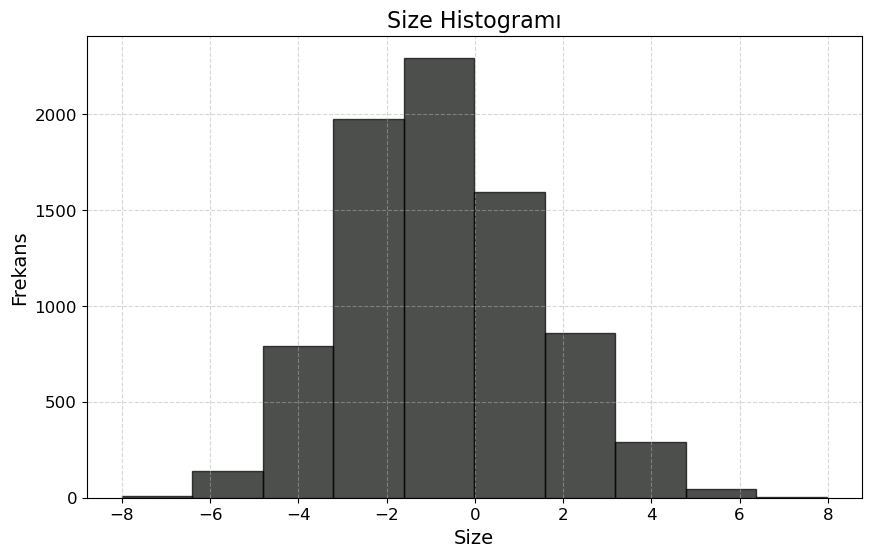
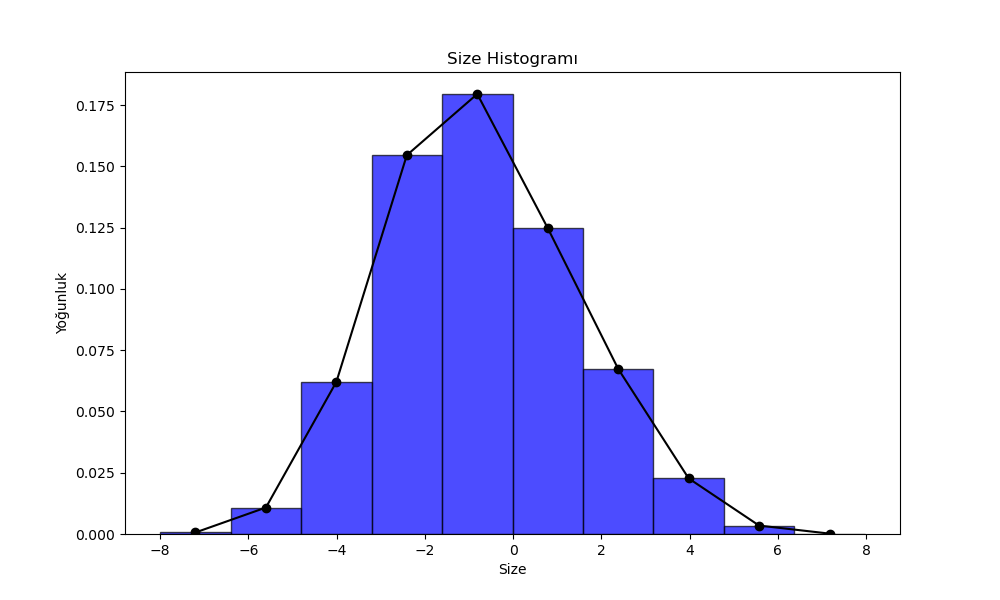
Version 1.0.2

diff --git a/templates/histograms.html b/templates/histograms.html
@@ -3,12 +3,31 @@
 <head>
     <meta charset="UTF-8">
     <meta name="viewport" content="width=device-width, initial-scale=1.0">
-    <title>Histogramlar</title>
+    <title>Histograms</title>
 </head>
 <body>
-    <h1>Histogramlar</h1>
-    <div id="histogramlar">
-        <img src="{{ url_for('static', filename=histogram) }}" alt="Histogram">
-    </div>
+    <h2>Histogram</h2>
+    <img src="{{ url_for('static', filename=histogram) }}" alt="Histogram">
+
+    <h2>Statistical Summary</h2>
+    <table border="1">
+        <thead>
+            <tr>
+                <th>Statistical Measure</th>
+                <th>Value</th>
+            </tr>
+        </thead>
+        <tbody>
+            {% for key, value in stats.items() %}
+            <tr>
+                <td>{{ key }}</td>
+                <td>{{ value }}</td>
+            </tr>
+            {% endfor %}
+        </tbody>
+    </table>
+
+    <h2>Missing Values</h2>
+    <p>{{ missing_info }}</p>
 </body>
 </html>

diff --git a/app.py b/app.py
@@ -2,8 +2,10 @@ import os
 import random
 
 import matplotlib.pyplot as plt
+import numpy as np
 import pandas as pd
 from flask import Flask, render_template, request
+from scipy import stats
 from werkzeug.utils import secure_filename
 
 app = Flask(__name__)
@@ -35,8 +37,13 @@ def upload():
         
         df = pd.read_csv(os.path.join(app.config['UPLOAD_FOLDER'], filename))
         columns = df.columns.tolist()
-
-        return render_template('select_column.html', columns=columns, filename=filename)
+        
+        # İstatistiksel özet hesaplama
+        stats_summary = df.describe().loc[['mean', 'std', 'min', '25%', '50%', '75%', 'max']]
+        stats_summary = stats_summary.rename(index={'50%': 'median', '25%': 'Q1', '75%': 'Q3'})
+        stats_summary = stats_summary.rename(index=lambda x: x.capitalize())
+        
+        return render_template('select_column.html', columns=columns, filename=filename, stats=stats_summary.to_dict())
     else:
         return "Yalnızca CSV dosyaları kabul edilmektedir!"
 
@@ -47,19 +54,33 @@ def visualize():
     df = pd.read_csv(os.path.join(app.config['UPLOAD_FOLDER'], filename))
 
     try:
+        # Eksik değer kontrolü
+        missing_values = df[selected_column].isnull().sum()
+        missing_info = f"{selected_column} sütununda {missing_values} eksik değer bulunmaktadır." if missing_values > 0 else f"{selected_column} sütununda eksik değer bulunmamaktadır."
+
+        # İstatistiksel özet hesaplama
+        stats_summary = df[selected_column].describe().loc[['mean', 'std', 'min', '25%', '50%', '75%', 'max']]
+        stats_summary = stats_summary.rename(index={'50%': 'median', '25%': 'Q1', '75%': 'Q3'})
+        stats_summary = stats_summary.rename(index=lambda x: x.capitalize())
+
         # Histogram veya trend grafiği oluştur
         if pd.api.types.is_numeric_dtype(df[selected_column]):
             # Sayısal veriler için histogram
             plt.figure(figsize=(10, 6))
-            plt.hist(df[selected_column], color=random.choice(['red', 'blue', 'green', 'yellow', 'orange', 'purple']), edgecolor='black', alpha=0.7)
+            n, bins, patches = plt.hist(df[selected_column], color=random.choice(['red', 'blue', 'green', 'yellow', 'orange', 'purple']), edgecolor='black', alpha=0.7, density=True)
+            
+            # Normalleştirilmiş histogramı kullanarak bir çizgi çiz
+            bin_centers = 0.5 * (bins[:-1] + bins[1:])
+            plt.plot(bin_centers, n, '-o', color='black')
+            
             plt.title(f"{selected_column} Histogramı")
             plt.xlabel(selected_column)
-            plt.ylabel("Frekans")
+            plt.ylabel("Yoğunluk")
             histogram_filename = f"{selected_column}_histogram.png"
             plt.savefig(os.path.join(app.config['STATIC_FOLDER'], histogram_filename))
             plt.close()
             
-            return render_template('histograms.html', histogram=histogram_filename)
+            return render_template('histograms.html', histogram=histogram_filename, stats=stats_summary.to_dict(), missing_info=missing_info)
         elif pd.api.types.is_datetime64_any_dtype(df[selected_column]):
             # Zaman verileri için trend grafiği
             df[selected_column] = pd.to_datetime(df[selected_column])
@@ -74,7 +95,7 @@ def visualize():
             plt.savefig(os.path.join(app.config['STATIC_FOLDER'], trend_filename))
             plt.close()
             
-            return render_template('trend.html', trend=trend_filename)
+            return render_template('trend.html', trend=trend_filename, stats=stats_summary.to_dict(), missing_info=missing_info)
         else:
             return f"{selected_column} sütunu sayısal veya tarih verileri içermemektedir!"
     except KeyError:
